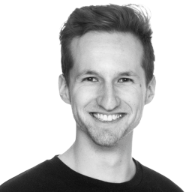
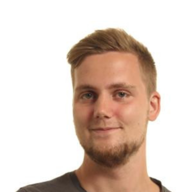
update with pics and text

diff --git a/pages/index.tsx b/pages/index.tsx
@@ -11,29 +11,43 @@ import { ContactForm } from "../components/ContactForm";
 export const getStaticProps = async ({
   previewData,
 }: GetStaticPropsContext) => {
-  const client = createClient({ previewData });
-  const articles = await client.getAllByType("article");
-  const about = await client.getSingle("about");
-  const home = await client.getSingle("home");
-  const projects = await client.getAllByType("project", {
-    orderings: {
-      field: "my.project.endDate",
-      direction: "desc",
-    },
-  });
-  const contact = await client.getSingle("contact");
+  //const client = createClient({ previewData });
+  //const articles = await client.getAllByType("article");
+  //const about = await client.getSingle("about");
+  //const home = await client.getSingle("home");
+  //const projects = await client.getAllByType("project", {
+   // orderings: {
+     // field: "my.project.endDate",
+   //   direction: "desc",
+  //  },
+  //});
+  //const contact = await client.getSingle("contact");
 
-  return {
-    props: { articles, about, home, projects, contact },
+  return { props: {},
+  //  props: { articles, about, home, projects, contact },
   };
 };
 
 type HomePageProps = InferGetStaticPropsType<typeof getStaticProps>;
 
-const HomePage: React.FC<HomePageProps> = ({ contact, home, projects }) => {
+const HomePage: React.FC<HomePageProps> = ({}) => {
+  const projects = [{
+    featuredText:"For my thesis, I collaborated with Hottinger Brüel & Kjær to develop a beamforming microphone array. Using Altium, I designed both the schematic and PCB, and conducted thorough electrical and acoustic testing. HBK is a prominent provider of integrated measurement and testing solutions across multiple industries, including aerospace, automotive, and energy.",
+    title:"M.Sc. Thesis",
+    image:"mscpic.png",
+  },{
+    featuredText:"As part of my project work, I collaborated with Harman Automotive and B&O to implement and measure the effectiveness of a tactile feedback system that enhances the alertness and immersive experience for car drivers. The system utilizes a vibrational transducer mounted on the car seat to simulate the engine vibration in a combustion engine car. Harman Automotive is a leading company that specializes in designing and developing audio and infotainment solutions for the automotive industry.",
+    title:"Harman Automotive",
+    image:"harmanpic.png",
+  },{
+    featuredText:"As a member of the advisory board for the newly founded company DockMe, I provide guidance and strategic advice to the management team on a range of business areas such as market analysis, product development, fundraising, and business strategy. Additionally, I offer networking opportunities and introduce potential investors or customers to the startup. My focus is to help the startup navigate challenges and opportunities and to provide valuable insights to support its growth and success. I have helped DockMe receive funding of approximately 100.000 DKK, as well as the recruitment of two new founders. DockMe is making an IoT solution for digitalizing harbors, following the United Nation goal Sustainable cities and communities (SDG 11). ",
+    title:"DockMe",
+    image:"dockme.png",
+  }
+  ]
   return (
     <Page>
-      <Hero home={home} />
+      <Hero />
 
       <div className="min-h-[75vh]">
         <Bounded as="section" size="widest">
@@ -41,8 +55,7 @@ const HomePage: React.FC<HomePageProps> = ({ contact, home, projects }) => {
             Projects
           </Heading>
           <p className="mb-10">
-            I like to try new things and gain different experiences. Check out
-            some of the last projects, that I&apos;ve dedicated my time to.
+            Here you can explore some of the innovative projects I&apos;ve worked with:
           </p>
 
           <div className="flex flex-col flex-wrap justify-between gap-x-2 gap-y-6 md:flex-row">
@@ -62,16 +75,12 @@ const HomePage: React.FC<HomePageProps> = ({ contact, home, projects }) => {
           innerClassName="h-full flex md:flex-row md:gap-0 gap-10 flex-col-reverse md:flex-row md:justify-between"
         >
           <div className="flex w-full items-end md:max-h-full md:w-1/2">
-            <PrismicNextImage
-              className="max-h-full max-w-full object-contain"
-              field={contact.data.image}
-            />
           </div>
 
           <div className="flex w-full flex-col py-3 align-baseline md:w-1/3 md:pt-24 ">
             <Heading as="h2" size="3xl" className="mb-8">
-              <PrismicText field={contact.data.title} />
-            </Heading>
+              {"test"} 
+            </Heading>  
 
             <ContactForm />
           </div>
@@ -81,7 +90,7 @@ const HomePage: React.FC<HomePageProps> = ({ contact, home, projects }) => {
   );
 };
 
-const Hero: React.FC<Pick<HomePageProps, "home">> = ({ home }) => {
+const Hero: React.FC<Pick<HomePageProps, "home">> = ({  }) => {
   return (
     <Bounded
       as="section"
@@ -92,20 +101,24 @@ const Hero: React.FC<Pick<HomePageProps, "home">> = ({ home }) => {
     >
       <div className="flex w-full flex-col pt-3 align-baseline md:w-1/2 md:pt-36 md:pr-12">
         <Heading as="h2">
-          <PrismicText field={home.data.heroTitle} />
+          {"Hi, I'm Lasse, a newly graduated M.Sc. electronic engineer from DTU, with an interest in electronics, acoustics, and entrepreneurship."} 
         </Heading>
 
-        <div className="mt-6">
-          <PrismicRichText field={home.data.heroText} />
+        <div className="mt-6" style={{whiteSpace:"break-spaces"}}>
+         {`With a strong foundation in electronics and a passion for innovation, I am open for exploring new ideas and concepts. I have a keen eye for identifying gaps in the market and developing solutions that are both practical and sustainable.
+
+I am a quick learner and an excellent problem-solver, which makes me well-equipped to navigate the challenges that come within engineering. I am eager to collaborate with others, build a strong team, and make my vision a reality.
+
+If you're looking for a young and innovative electronic engineer with an entrepreneurial spirit, look no further than me. With my passion for electronics and his drive to succeed, I am motivated to create the tech solutions of tomorrow!
+`} 
         </div>
       </div>
 
       <div className="flex w-full items-end md:max-h-full md:w-1/2 md:pl-12">
-        <PrismicNextImage
+        <img
           className="max-h-full max-w-full object-contain"
-          field={home.data.heroImage}
-          priority
-        />
+          src={"hjemmesidebillede.png"}
+                  />
       </div>
 
       <div className="absolute bottom-0 left-[calc(50%-6px)] text-2xl">↓</div>

diff --git a/components/ProjectPreview.tsx b/components/ProjectPreview.tsx
@@ -16,27 +16,20 @@ interface ProjectPreviewProps {
 export const ProjectPreview: FunctionComponent<ProjectPreviewProps> = ({
   project,
 }) => {
-  if (!project.data.show) return null;
 
-  const featuredImage =
-    (prismicH.isFilled.image(project.data.featuredImage) &&
-      project.data.featuredImage) ||
-    findFirstImage(project.data.slices);
 
   return (
     <div className="flex w-full flex-col justify-between md:max-w-[40%]">
-      {/* <PrismicLink document={project} className="mb-4"> */}
-      {prismicH.isFilled.image(featuredImage) && (
-        <PrismicNextImage field={featuredImage} />
-      )}
-      {/* </PrismicLink> */}
+  
+        <img src={project.image} />
+
       <div className="mb-6">
         <Heading as="h3" size="2xl" className="mb-4">
-          {/* <PrismicLink document={project}> */}
-          <PrismicText field={project.data.title} />
-          {/* </PrismicLink> */}
+
+           {project.title}
+
         </Heading>
-        <PrismicText field={project.data.featuredText} />
+        {project.featuredText} 
       </div>
     </div>
   );

diff --git a/components/ContactForm.tsx b/components/ContactForm.tsx
@@ -45,7 +45,7 @@ export const ContactForm: FunctionComponent<ContactFormProps> = ({
         className="mb-4"
         id="name"
         label="Name"
-        placeholder="John Doe"
+        placeholder="Your Name"
         onChange={setName}
         value={name}
       />
@@ -54,7 +54,7 @@ export const ContactForm: FunctionComponent<ContactFormProps> = ({
         className="mb-4"
         id="email"
         label="Email"
-        placeholder="johndoe@awesome.com"
+        placeholder="ýouremail@here.com"
         onChange={setEmail}
         value={email}
       />
@@ -64,7 +64,7 @@ export const ContactForm: FunctionComponent<ContactFormProps> = ({
         id="message"
         label="Message"
         rows={10}
-        placeholder="Hey Christian! Have you ever ...?"
+        placeholder="Hey Lasse!"
         onChange={setMessage}
         value={message}
       />

diff --git a/components/Page.tsx b/components/Page.tsx
@@ -8,7 +8,7 @@ export const Page: FunctionComponent<PageProps> = ({ children }) => {
   return (
     <div className="m-0 h-full w-full p-0 text-slate-700">
       <Head>
-        <title>Christian Lebeck</title>
+        <title>Lasse Yori Jacobsen</title>
         <meta
           name="description"
           content="Content sharing website by Christian Lebeck"

diff --git a/components/Navigation.tsx b/components/Navigation.tsx
@@ -12,7 +12,7 @@ export const Navigation = () => {
       innerClassName="mx-auto flex justify-between py-4"
     >
       <div className="font-sans text-lg font-semibold tracking-tighter text-slate-800">
-        <Link href="/">Christian Lebeck</Link>
+        <Link href="/">Lasse Yori Jacobsen</Link>
       </div>
 
       <div className="flex gap-10">
